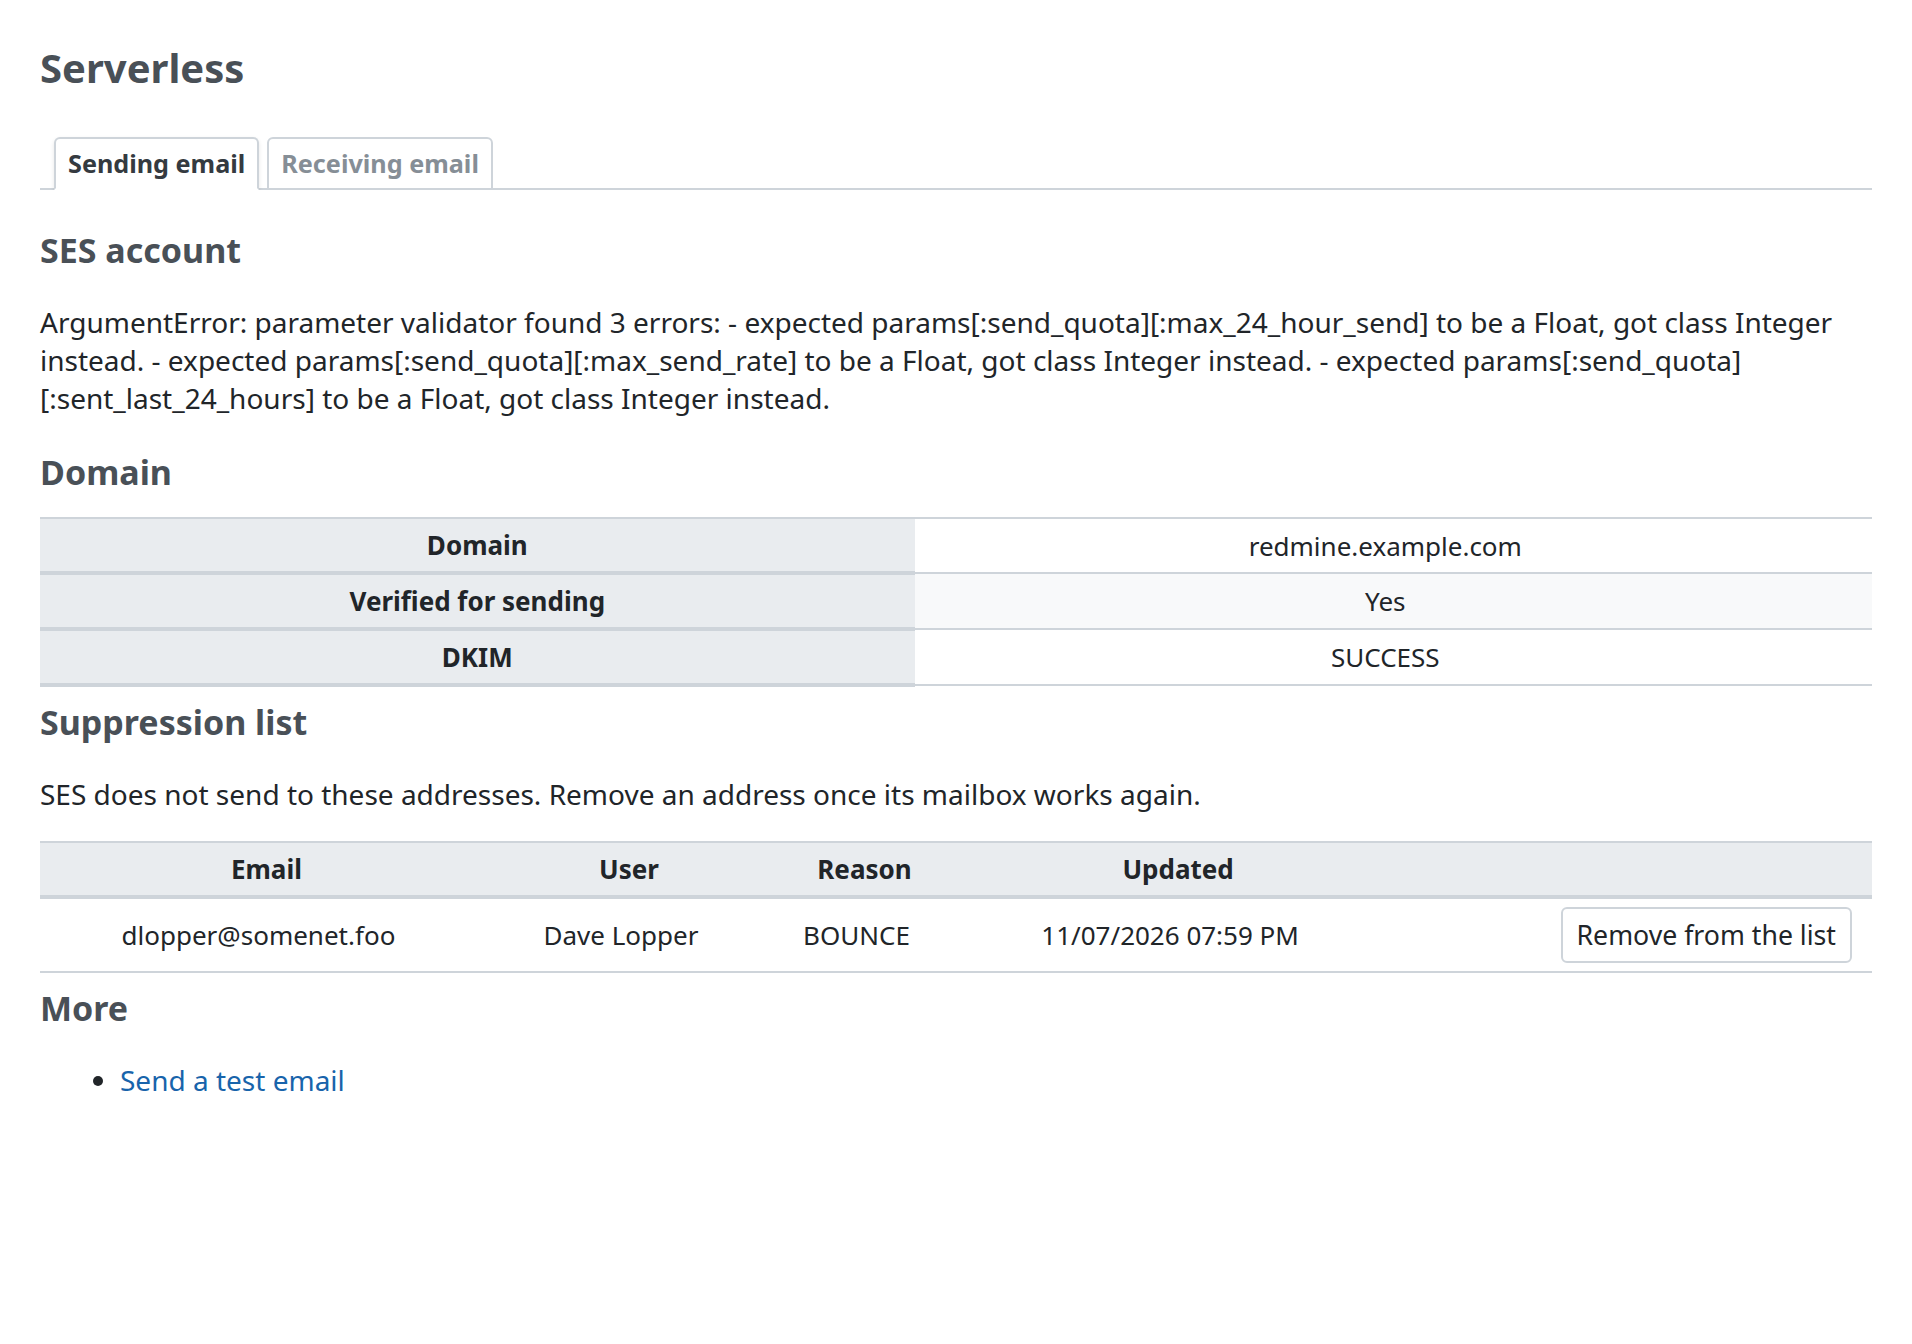
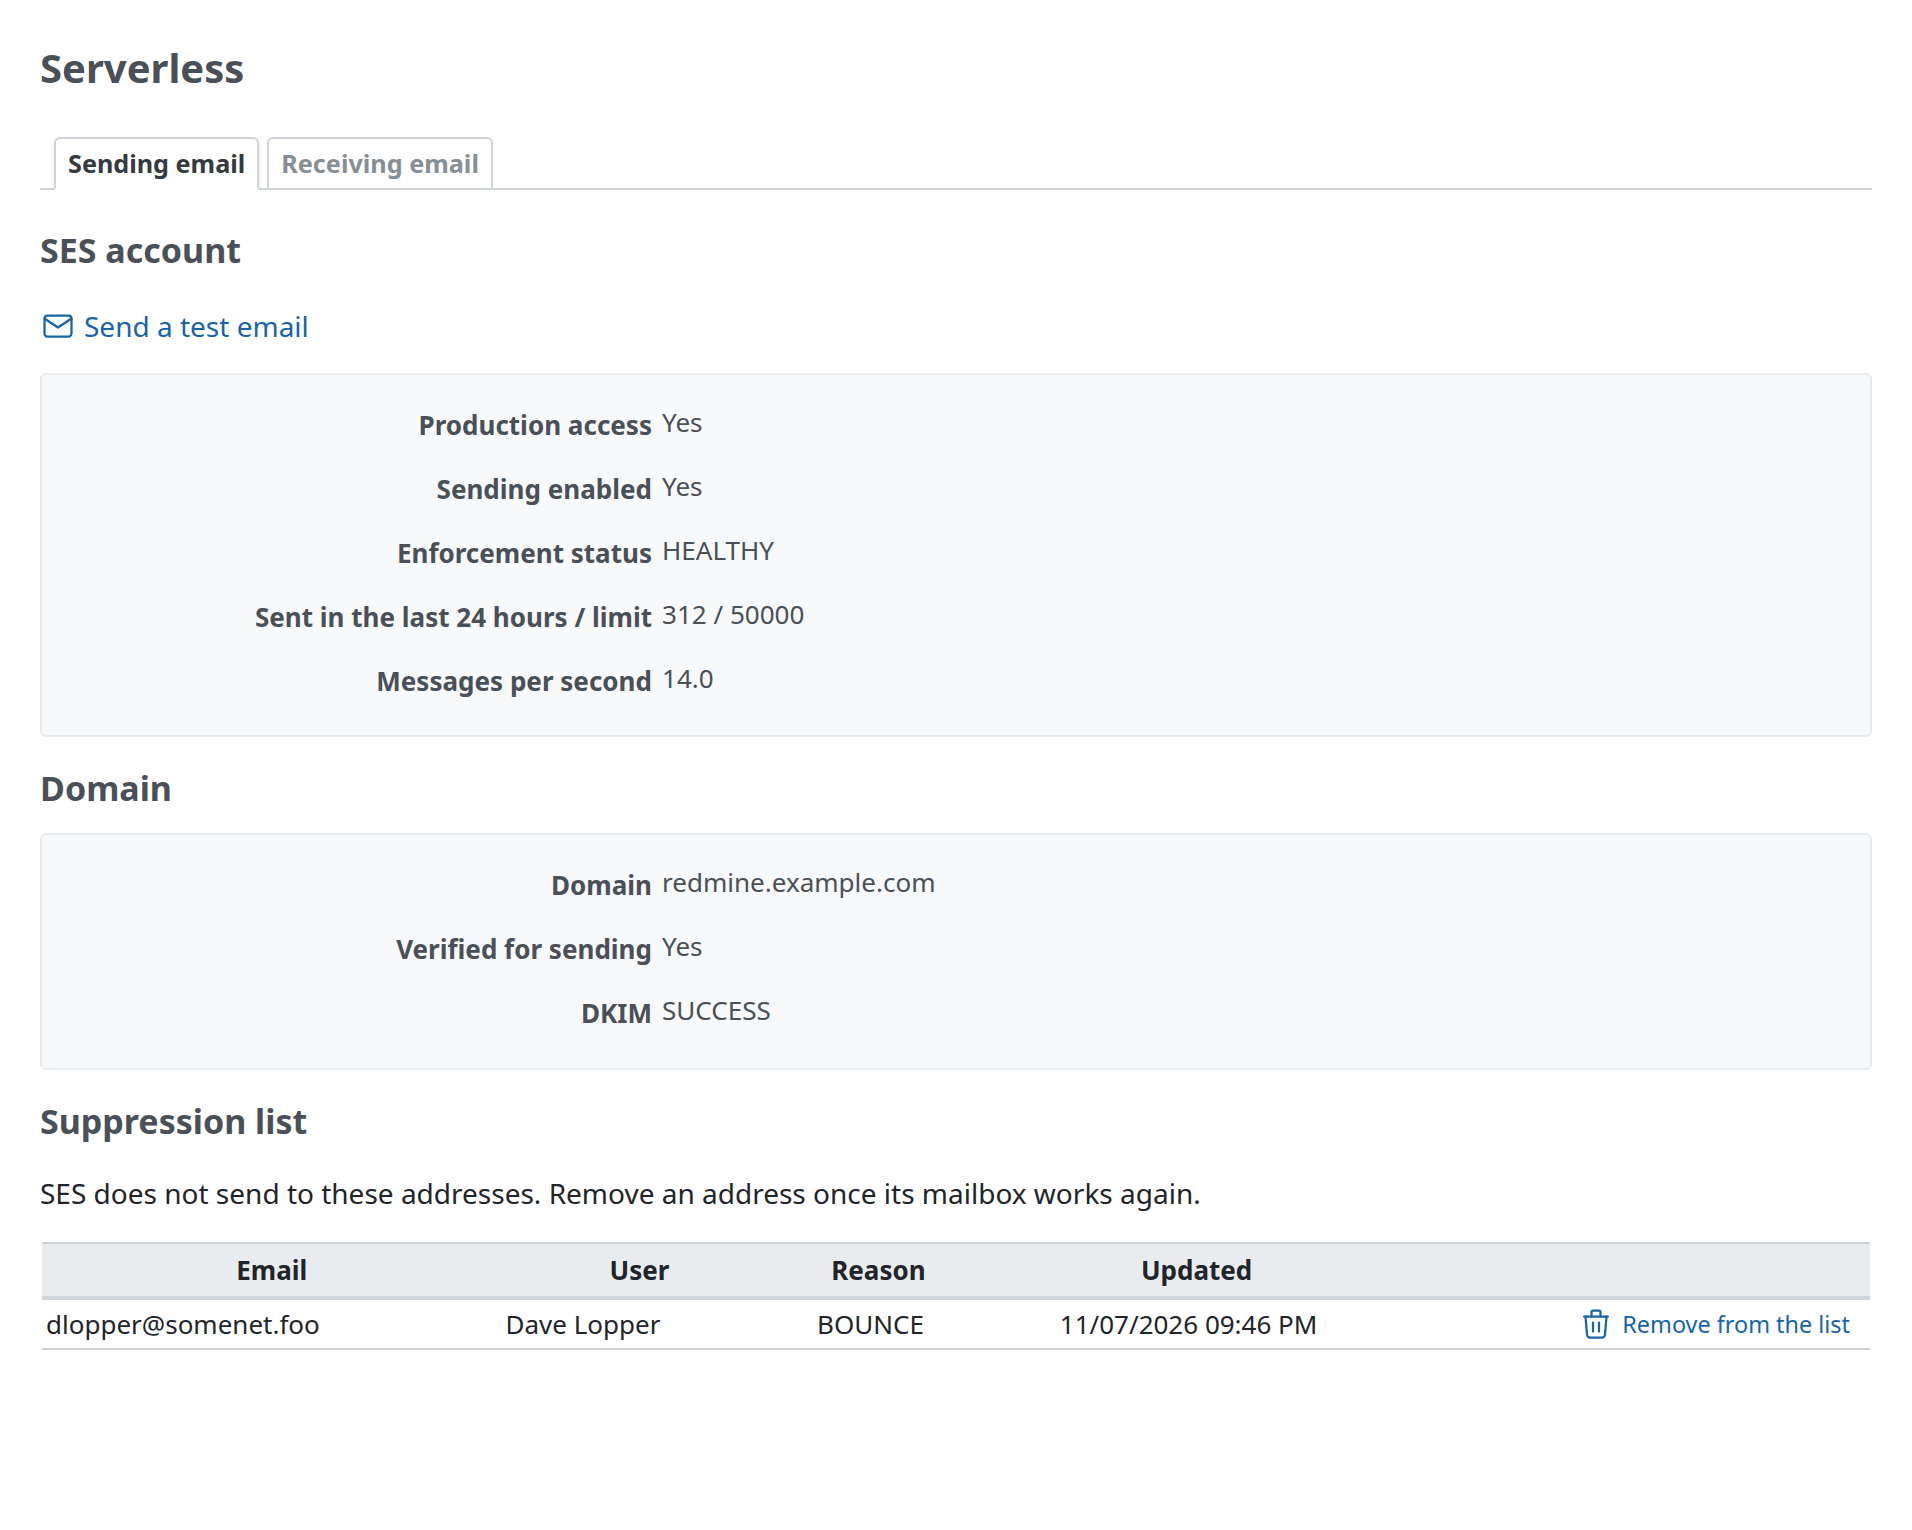
Take the email tab screenshots again, at their full height

diff --git a/test/screenshots/screens.rb b/test/screenshots/screens.rb
@@ -61,8 +61,8 @@ class RedmineServerlessSesScreens < ScreenshotCase
     client = Aws::SESV2::Client.new(stub_responses: true, region: 'ap-northeast-1')
     client.stub_responses(:get_account, production_access_enabled: true, sending_enabled: true,
                                         enforcement_status: 'HEALTHY',
-                                        send_quota: { max_24_hour_send: 50_000, max_send_rate: 14,
-                                                      sent_last_24_hours: 312 })
+                                        send_quota: { max_24_hour_send: 50_000.0, max_send_rate: 14.0,
+                                                      sent_last_24_hours: 312.0 })
     client.stub_responses(:get_email_identity, verified_for_sending_status: true,
                                                dkim_attributes: { status: 'SUCCESS' })
     client.stub_responses(:list_suppressed_destinations, suppressed_destination_summaries: [

diff --git a/test/screenshots/screenshot_case.rb b/test/screenshots/screenshot_case.rb
@@ -45,8 +45,11 @@ class ScreenshotCase < ApplicationSystemTestCase
   # captures what is in the window; the focused field loses its caret.
   def shoot(name, language, selector: '#content')
     element = page.find(selector)
-    bottom = page.evaluate_script("document.querySelector(#{selector.to_json}).getBoundingClientRect().bottom")
-    page.driver.browser.manage.window.resize_to(1280, [bottom.ceil + 200, 900].max)
+    # Twice: the page can lay out taller once the window has grown.
+    2.times do
+      bottom = page.evaluate_script("document.querySelector(#{selector.to_json}).getBoundingClientRect().bottom")
+      page.driver.browser.manage.window.resize_to(1280, [bottom.ceil + 200, 900].max)
+    end
     page.execute_script('window.scrollTo(0, 0); document.activeElement?.blur()')
     path = File.join(DOCS, LANGUAGES.fetch(language), "#{name}.png")
     element.native.save_screenshot(path)
